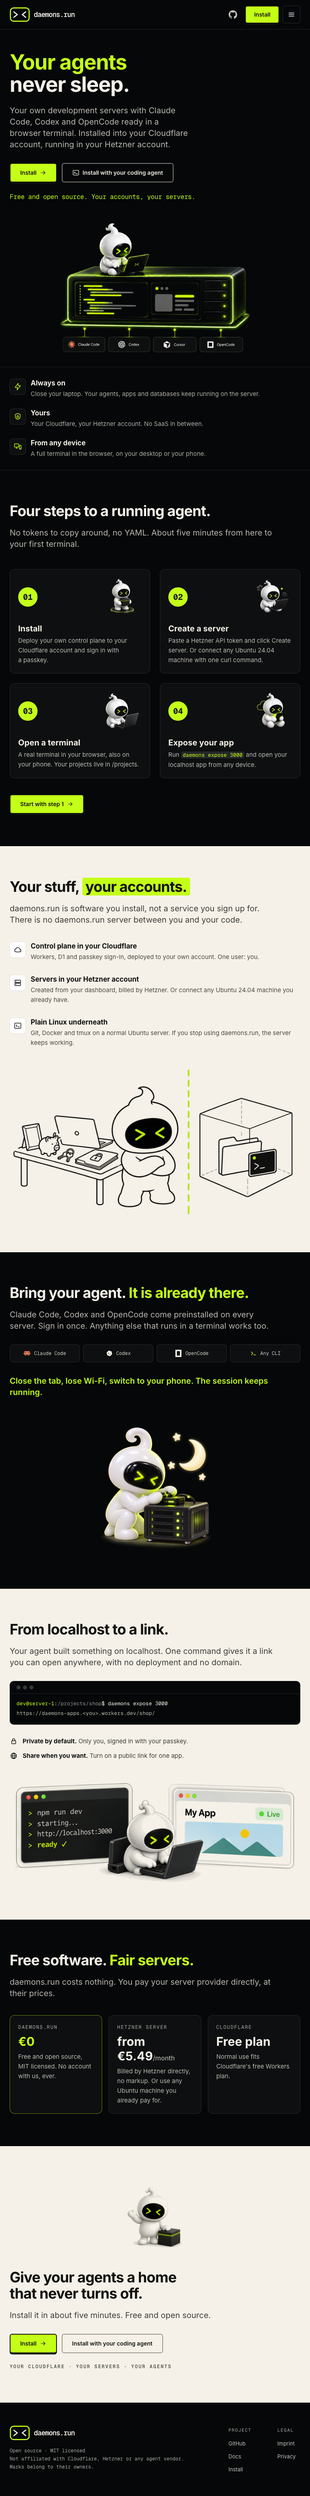
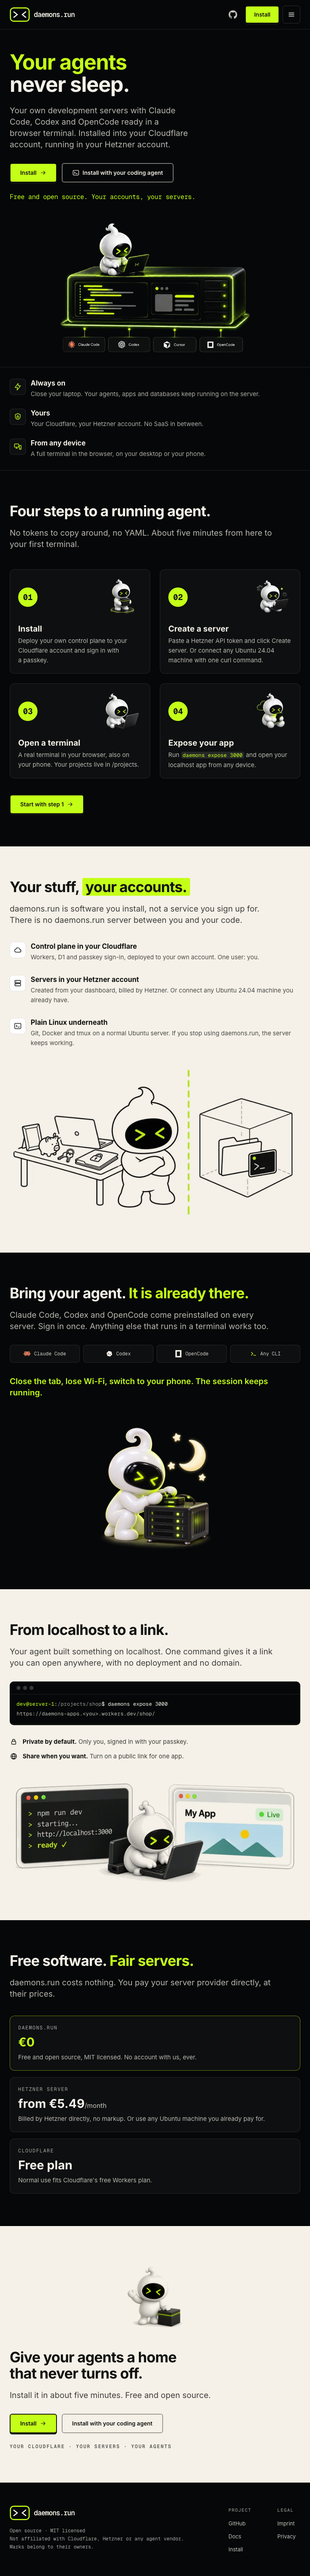
Homepage (Astro, preview deployed); add-a-device link for phones
- website/: homepage, /install with the Deploy button and agent prompt,
  /install.md for coding agents; Lighthouse 99-100 mobile and desktop
- Settings → Add a phone: single-use QR link that lets another device register
  its own passkey (passkeys that do not sync across ecosystems)

Claude-Session: https://claude.ai/code/session_01Pq9KzAADqaMjRU8G7iuEHa

Changed region(s): [[0.0, 0.0, 1.0, 0.9956], [0.75, 0.9645, 0.7812, 0.9956], [0.2812, 0.2489, 0.3125, 0.28]]

diff --git a/control-plane/src/worker/auth.ts b/control-plane/src/worker/auth.ts
@@ -328,6 +328,47 @@ authRoutes.post('/auth/logout', requireSameOrigin, async (c) => {
   return c.json({ ok: true });
 });
 
+// --- Add a device: a signed-in owner lets another device register its own passkey ---------
+
+const DEVICE_LINK_TTL = 10 * 60 * 1000;
+
+async function deviceTokenValid(db: D1Database, token: string): Promise<boolean> {
+  const row = await db
+    .prepare("SELECT expires_at FROM app_tickets WHERE token_hash = ? AND kind = 'device' AND used_at IS NULL")
+    .bind(await sha256(token))
+    .first<{ expires_at: number }>();
+  return !!row && row.expires_at > now();
+}
+
+authRoutes.post('/device/options', requireSameOrigin, async (c) => {
+  const { token } = await c.req.json<{ token: string }>();
+  if (!token || !(await deviceTokenValid(c.env.DB, token))) {
+    return c.json({ error: 'This link was used or has expired. Create a new one in Settings on a signed-in device.', code: 'expired' }, 410);
+  }
+  return c.json(await registrationOptions(c, 'add'));
+});
+
+authRoutes.post('/device/finish', requireSameOrigin, async (c) => {
+  const { token, response } = await c.req.json<{ token: string; response: RegistrationResponseJSON }>();
+  const passkey = await verifyRegistration(c, response, 'add');
+  if (!passkey) return c.json({ error: 'The passkey could not be verified. Try again.' }, 400);
+  // Consume the link and store the passkey in one transaction.
+  const results = await c.env.DB.batch([
+    c.env.DB.prepare("UPDATE app_tickets SET used_at = ?1 WHERE token_hash = ?2 AND kind = 'device' AND used_at IS NULL AND expires_at > ?1").bind(
+      now(),
+      await sha256(token ?? ''),
+    ),
+    c.env.DB.prepare(
+      "INSERT INTO passkeys (id, public_key, counter, transports, name, created_at) SELECT ?, ?, ?, ?, ?, ? WHERE changes() = 1",
+    ).bind(passkey.id, passkey.publicKey, passkey.counter, passkey.transports, passkeyName(c.req.header('User-Agent')), now()),
+  ]);
+  if (results[0].meta.changes !== 1 || results[1].meta.changes !== 1) {
+    return c.json({ error: 'This link was used or has expired. Create a new one in Settings on a signed-in device.', code: 'expired' }, 410);
+  }
+  await createSession(c, passkey.id);
+  return c.json({ ok: true });
+});
+
 // --- Passkeys and sessions (owner session) ------------------------------------------------
 
 export const accountRoutes = new Hono<HonoEnv>();
@@ -338,6 +379,13 @@ accountRoutes.get('/passkeys', async (c) => {
 });
 
 accountRoutes.post('/passkeys/options', async (c) => c.json(await registrationOptions(c, 'add')));
+
+accountRoutes.post('/passkeys/device-link', async (c) => {
+  const token = randomToken();
+  const expiresAt = now() + DEVICE_LINK_TTL;
+  await c.env.DB.prepare("INSERT INTO app_tickets (token_hash, kind, expires_at) VALUES (?, 'device', ?)").bind(await sha256(token), expiresAt).run();
+  return c.json({ url: `${new URL(c.req.url).origin}/add-device#t=${token}`, expiresAt });
+});
 
 accountRoutes.post('/passkeys', async (c) => {
   const { response } = await c.req.json<{ response: RegistrationResponseJSON }>();

diff --git a/control-plane/src/ui/pages/settings.tsx b/control-plane/src/ui/pages/settings.tsx
@@ -1,6 +1,9 @@
 import { startRegistration } from '@simplewebauthn/browser';
 import { useMutation, useQuery, useQueryClient } from '@tanstack/react-query';
-import { Check, KeyRound, Monitor, Moon, Pencil, Sun, Trash2 } from 'lucide-react';
+import { Check, KeyRound, Monitor, Moon, Pencil, Smartphone, Sun, Trash2 } from 'lucide-react';
+import qrcode from 'qrcode-generator';
+import { CopyField } from '@/components/CopyControl';
+import { Dialog, DialogContent, DialogDescription, DialogHeader, DialogTitle } from '@/components/ui/dialog';
 import { useState } from 'react';
 import { ConfirmDestructive } from '@/components/ConfirmDestructive';
 import { Page, SectionCard } from '@/components/layout/Page';
@@ -74,6 +77,10 @@ function Passkeys() {
     >
       {error ? <Notice onRetry={() => void refetch()}>{error.message}</Notice> : null}
       {addError ? <Notice>{addError}</Notice> : null}
+      <div className="flex flex-wrap items-center gap-2">
+        <DeviceLink />
+        <span className="text-caption text-muted">For a phone whose passkeys do not sync with this device.</span>
+      </div>
       <ul className="flex flex-col divide-y divide-line">
         {passkeys.map((p) => (
           <li key={p.id} className="flex min-w-0 flex-wrap items-center gap-3 py-3 first:pt-0 last:pb-0">
@@ -129,6 +136,43 @@ function Passkeys() {
         onConfirm={() => deleting && remove.mutate(deleting.id)}
       />
     </SectionCard>
+  );
+}
+
+function DeviceLink() {
+  const [link, setLink] = useState<{ url: string; expiresAt: number } | null>(null);
+  const create = useMutation({
+    mutationFn: () => api<{ url: string; expiresAt: number }>('/passkeys/device-link', { method: 'POST' }),
+    onSuccess: setLink,
+  });
+  const svg = link
+    ? (() => {
+        const qr = qrcode(0, 'M');
+        qr.addData(link.url);
+        qr.make();
+        return qr.createSvgTag({ cellSize: 4, margin: 2, scalable: true });
+      })()
+    : '';
+  return (
+    <>
+      <Button variant="secondary" size="sm" onClick={() => create.mutate()} disabled={create.isPending} data-testid="add-device">
+        <Smartphone />
+        Add a phone
+      </Button>
+      {create.error ? <Notice>{create.error.message}</Notice> : null}
+      <Dialog open={!!link} onOpenChange={(o) => !o && setLink(null)}>
+        <DialogContent>
+          <DialogHeader>
+            <DialogTitle>Add a phone or another device</DialogTitle>
+            <DialogDescription>
+              Scan this code with the device, or open the link there. It creates that device's own passkey. The link works once, for 10 minutes.
+            </DialogDescription>
+          </DialogHeader>
+          <div className="mx-auto w-56 rounded-md bg-white p-2" data-testid="device-qr" dangerouslySetInnerHTML={{ __html: svg }} />
+          {link ? <CopyField value={link.url} testId="device-link" /> : null}
+        </DialogContent>
+      </Dialog>
+    </>
   );
 }
 

diff --git a/control-plane/e2e/02-device-link.spec.ts b/control-plane/e2e/02-device-link.spec.ts
@@ -1,0 +1,56 @@
+import { expect, test } from '@playwright/test';
+import { shoot, virtualPasskey } from './helpers';
+
+test('add a device: a single-use link registers that device its own passkey', async ({ page, context, baseURL, browser }) => {
+  await virtualPasskey(page, baseURL!);
+  await page.goto('/login');
+  await page.getByTestId('sign-in').click();
+  await expect(page).toHaveURL(/\/servers/);
+  const before = (await (await page.request.get('/api/passkeys')).json()).passkeys.length;
+  await page.goto('/settings');
+  await page.getByTestId('add-device').click();
+  await expect(page.getByTestId('device-qr').locator('svg')).toBeVisible();
+  const url = await page.getByTestId('device-link').locator('code').innerText();
+  expect(url).toMatch(/\/add-device#t=/);
+  await page.screenshot({ path: '../docs/qa/02-auth/device-link-desktop-light.png' });
+
+  // The "phone": a fresh browser with its own authenticator and no session.
+  const phoneContext = await browser.newContext({ viewport: { width: 390, height: 844 }, hasTouch: true, isMobile: true });
+  const phone = await phoneContext.newPage();
+  const cdp = await phoneContext.newCDPSession(phone);
+  await cdp.send('WebAuthn.enable');
+  await cdp.send('WebAuthn.addVirtualAuthenticator', {
+    options: { protocol: 'ctap2', transport: 'internal', hasResidentKey: true, hasUserVerification: true, isUserVerified: true, automaticPresenceSimulation: true },
+  });
+  await phone.goto(url);
+  await expect(phone).toHaveURL(/\/add-device$/);
+  await phone.screenshot({ path: '../docs/qa/02-auth/add-device-phone-dark.png' });
+  await phone.getByTestId('add-device-passkey').click();
+  await expect(phone).toHaveURL(/\/servers/);
+
+  // Signed out, the phone signs in with its new passkey.
+  await phone.request.post('/api/auth/logout', { headers: { Origin: new URL(baseURL!).origin } });
+  await phone.goto('/login');
+  await phone.getByTestId('sign-in').click();
+  await expect(phone).toHaveURL(/\/servers/);
+
+  // The link works once.
+  const again = await browser.newContext();
+  const againPage = await again.newPage();
+  await againPage.goto(url);
+  const r = await againPage.request.post('/api/device/options', {
+    data: { token: /t=(.+)$/.exec(url)![1] },
+    headers: { Origin: new URL(baseURL!).origin },
+  });
+  expect(r.status()).toBe(410);
+
+  // The owner sees two passkeys and can remove the phone's.
+  await page.goto('/settings');
+  await expect(page.getByTestId('passkeys').getByRole('listitem')).toHaveCount(before + 1);
+  await page.getByTestId('passkeys').getByRole('listitem').last().getByRole('button', { name: /^Delete / }).click();
+  await page.getByTestId('confirm-destructive').click();
+  await expect(page.getByTestId('passkeys').getByRole('listitem')).toHaveCount(before);
+  await shoot(context, '/settings', '02-auth', 'settings-passkeys');
+  await phoneContext.close();
+  await again.close();
+});

diff --git a/control-plane/src/ui/pages/auth.tsx b/control-plane/src/ui/pages/auth.tsx
@@ -191,3 +191,44 @@ export function SetupPage() {
     </AuthSurface>
   );
 }
+
+export function AddDevicePage() {
+  const queryClient = useQueryClient();
+  const [token] = useState(() => /t=([^&]+)/.exec(window.location.hash)?.[1] ?? '');
+  const [error, setError] = useState<string | null>(token ? null : 'This link is incomplete. Open the whole link, or scan the code again.');
+  const [busy, setBusy] = useState(false);
+  const [done, setDone] = useState(false);
+  useEffect(() => {
+    if (token) history.replaceState(null, '', '/add-device');
+  }, [token]);
+  if (done) return <Navigate to="/servers" replace />;
+
+  async function register() {
+    setError(null);
+    if (!browserSupportsWebAuthn()) return setError(unsupported);
+    setBusy(true);
+    try {
+      const options = await api<Parameters<typeof startRegistration>[0]['optionsJSON']>('/device/options', { method: 'POST', json: { token } });
+      const response = await startRegistration({ optionsJSON: options });
+      await api('/device/finish', { method: 'POST', json: { token, response } });
+      queryClient.setQueryData(['me'], { authenticated: true, setupOpen: false, setupCodeConfigured: true });
+      setDone(true);
+    } catch (e) {
+      if (!isCancel(e)) setError(e instanceof Error ? e.message : 'The passkey could not be created.');
+    } finally {
+      setBusy(false);
+    }
+  }
+
+  return (
+    <AuthSurface title="Add this device" subtitle="Create a passkey on this device, so you can sign in here.">
+      <div className="flex flex-col gap-4">
+        {error ? <ErrorLine>{error}</ErrorLine> : null}
+        <Button size="cta" className="w-full" onClick={() => void register()} disabled={busy || !token} data-testid="add-device-passkey">
+          <KeyRound className="size-4" />
+          {busy ? 'Waiting for your passkey…' : 'Create passkey'}
+        </Button>
+      </div>
+    </AuthSurface>
+  );
+}

diff --git a/control-plane/src/ui/router.tsx b/control-plane/src/ui/router.tsx
@@ -4,7 +4,7 @@ import { createBrowserRouter, Navigate, Outlet, useLocation, useNavigate } from 
 import { AppShell } from '@/components/AppShell';
 import { api } from '@/lib/api';
 import type { Me } from '@/lib/types';
-import { LoginPage, SetupPage } from '@/pages/auth';
+import { AddDevicePage, LoginPage, SetupPage } from '@/pages/auth';
 import { NotFoundPage } from '@/pages/not-found';
 import { ServersPage } from '@/pages/servers';
 import { ProjectsPage } from '@/pages/projects';
@@ -45,6 +45,7 @@ function RequireOwner({ fill = false }: { fill?: boolean }) {
 export const router = createBrowserRouter([
   { path: '/setup', element: <SetupPage /> },
   { path: '/login', element: <LoginPage /> },
+  { path: '/add-device', element: <AddDevicePage /> },
   {
     element: <RequireOwner />,
     children: [

diff --git a/docs/qa/10-homepage/NOTES.md b/docs/qa/10-homepage/NOTES.md
@@ -1,0 +1,32 @@
+# QA: epic 10, homepage (2026-10-06)
+
+Preview: https://daemons-run-website.fabian-wesner.workers.dev (Worker `daemons-run-website`, static assets only).
+
+## What I checked
+
+- **Build**: `npm run build -w website`, and from a clean copy of the repo (no node_modules): `npm ci && npm run typecheck && npm test && npm run build`. All exit 0.
+- **Local serving**: `npx wrangler dev` in `website/` (same asset handling as production): `/` and `/install` 200 text/html, `/install.md` 200 `text/markdown; charset=utf-8` (via `public/_headers`), unknown paths 404 with the 404 page.
+- **Screenshots** (Playwright Chromium, against the deployed preview): `home-{390,768,1440}.png`, `install-{390,768,1440}.png`, `home-390-menu.png` (mobile menu open). These are captured with a viewport as tall as the page. Chromium's `fullPage` mode drops some `mix-blend-mode` images on long pages, but in the real viewport they render correctly.
+- **Horizontal overflow**: `scrollWidth == clientWidth` on both pages at 320, 360, 390, 768, 1024, 1280, 1440 and 1920. I fixed one overflow at 320 on /install (card padding).
+- **Against live daemons.run**: same header (mark, wordmark, lime CTA), hero layout (headline, lime first line, CTA pair, mono tagline, server art with `mix-blend-lighten`), USP band, black and bone stripes, lime step numerals, final CTA with the waving mascot on bone, dark footer. Fonts are Inter Variable and Geist Mono, self-hosted via Fontsource.
+- **Mobile menu**: the toggle sets `aria-expanded`. Escape and following a link both close it. The GitHub icon and Install stay visible in the header on mobile.
+- **Copy**: all of it is new. No containers or isolation claims, no teams, no €5 or OAuth sign-in claims, no Apache-2.0. Hetzner is quoted as "from €5.49/month" (CX23). Cloudflare is described as "normal use fits the free plan". The shell prompt uses `dev@`.
+
+## Lighthouse (lighthouse CLI, headless Chromium)
+
+| Page | Mode | Perf | A11y | Best practices | SEO |
+|---|---|---|---|---|---|
+| / (local) | mobile | 99 | 100 | 100 | 100 |
+| / (local) | desktop | 100 | 100 | 100 | 100 |
+| /install (local) | mobile | 100 | 100 | 100 | 100 |
+| /install (local) | desktop | 100 | 100 | 100 | 100 |
+| / (preview) | mobile | 100 | 100 | 100 | 100 |
+| / (preview) | desktop | 100 | 100 | 100 | 100 |
+
+Fixes made along the way: inlined CSS (no render-blocking request), 800w variants plus `srcset` for the three large images, downscaled step icons, and USP headings changed to h2 for heading order.
+
+## Known limits
+
+- The hero art (`art-hero-machine-tight`) still shows a Cursor chip from the old product. The alt text does not mention it.
+- `typecheck` runs `astro sync && tsc --noEmit`, not `astro check`. Volar resolves the root TypeScript 7 (from control-plane), which has no JS API yet. So `.astro` templates are not type-checked. The build still catches compile errors in them.
+- Imprint and privacy links point to the old pages at https://daemons.run/imprint and /privacy.

diff --git a/website/public/install.md b/website/public/install.md
@@ -12,7 +12,7 @@ daemons.run is free and open source (MIT): https://github.com/tecsteps/daemons-r
 
 ## 1. Check prerequisites
 
-- Node.js 20 or newer: `node --version`
+- Node.js 22 or newer: `node --version`
 - git: `git --version`
 
 If either is missing, stop and tell the human what to install.
@@ -60,7 +60,7 @@ That is the end of the install. In the control plane, the human pastes a Hetzner
 
 ## Good to know
 
-- **Rerunning is safe.** `npm run install-control-plane` updates in place, keeps the D1 database, its data and the setup code. If the control plane is already set up, it prints the existing URL instead of a new setup link.
+- **Rerunning is safe.** `npm run install-control-plane` updates in place, keeps the D1 database, its data and the setup code. When a setup code is already set, it prints the control plane URL instead of a new setup link. If the human never used the first link, run `npm run reset-access` to get a new one.
 - **Lost all passkeys?** Run `npm run reset-access` from the repository root. It prints a new setup link. Completing setup with it revokes every other passkey and session.
 - **Name collision.** If a Worker named `daemons` (or `daemons-apps`) already exists in the account and is not a daemons.run install, the script stops and changes nothing. Install under another name: `npm run install-control-plane -- --name <other>` (for example `daemons-2`). Use the same `-- --name <other>` with `npm run reset-access` later.
 - **Not signed in.** If the script says Wrangler is not signed in, repeat step 3 and run step 4 again.

diff --git a/specs/02-passkey-auth.md b/specs/02-passkey-auth.md
@@ -21,6 +21,7 @@ Proof of ownership before the first passkey is a **setup code**, a Worker secret
 - **Sign-in.** One button: "Sign in with passkey". WebAuthn discoverable credentials (no username field), user verification required, RP ID = the exact control plane hostname, exact origin check, single-use challenges stored in D1 with a 5-minute expiry. Library: `@simplewebauthn/server` and `@simplewebauthn/browser`.
 - **Session.** Host-only cookie (no `Domain` attribute), HttpOnly, Secure, SameSite=Lax, 30-day sliding expiry; sessions stored in D1. Revoking a session or passkey also closes that session's open terminal WebSockets.
 - **Origin check.** Every state-changing `/api/*` request and every browser WebSocket upgrade must carry `Origin` equal to the control plane origin.
+- **Add a device link** (decided 2026-10-06): Settings → Add a phone shows a QR code and a single-use link (10 minutes) minted by the signed-in owner; opening it on the other device registers that device's own passkey and signs it in. Needed when passkeys do not sync between the devices (Mac + Android).
 - **Add another passkey** from Settings (e.g. phone plus laptop). Strongly nudged right after setup ("Add a second device so you never get locked out").
 - **Manage passkeys:** list with name, created and last used; rename; delete (never the last one). Sessions: list and revoke.
 
